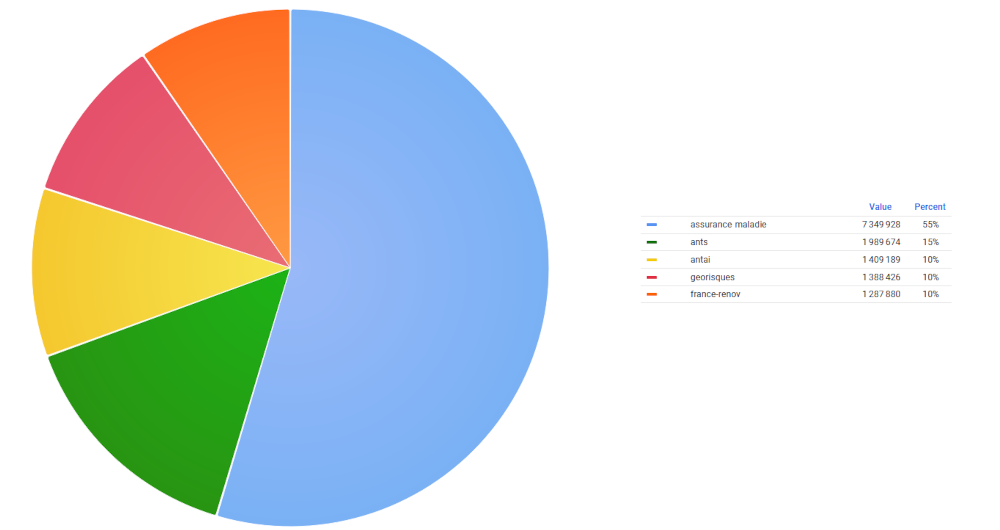
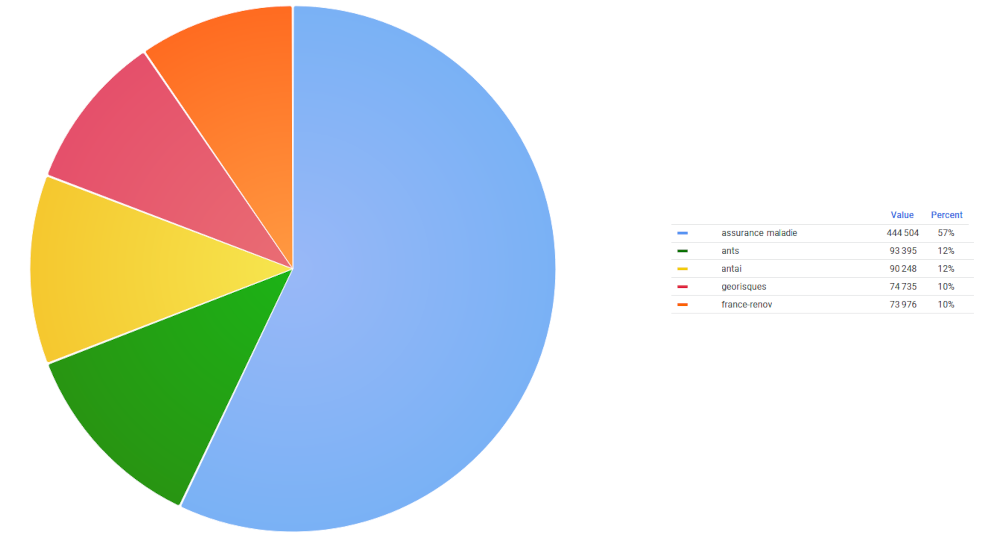
update impact indicators from may to june 2023

diff --git a/pages/indicateurs.js b/pages/indicateurs.js
@@ -20,20 +20,20 @@ function Indicateurs() {
           Cette page d’indicateurs ne reflète qu’une partie des usages. Sont ici représentés les usages de l’API adresse et non les usages de téléchargement des fichiers adresse. Néanmoins, les exploitations de l’API sont une illustration relativement fidèle des usages de l’adresse et de la typologie des utilisateurs.<br />
           Les statistiques sont présentées sur une périodicité mensuelle et sont issues des données brutes d’exploitation.<br />
           Ces données seront régulièrement enrichies afin de donner une lecture la plus fidèle des usages de la BAN.<br />
-          Date de dernière mise à jour : Juin 2023
+          Date de dernière mise à jour : Juillet 2023
         </SectionText>
       </Section>
 
-      <Section title='Nombre de requêtes' subtitle='en mai 2023' >
+      <Section title='Nombre de requêtes' subtitle='en juin 2023' >
         <Image src='/images/indicateurs/nb_requetes.png' height={200} width={1000} />
       </Section>
 
-      <Section title='Part public-privé' subtitle='en mai 2023' background='grey'>
-        <Image src='/images/indicateurs/part_public.png' height={575} width={1000} />
+      <Section title='Part public-privé' subtitle='en juin 2023' background='grey'>
+        <Image src='/images/indicateurs/part_public.png' height={630} width={1000} />
       </Section>
 
-      <Section title='Ils nous font confiance' subtitle='Les 5 plus gros utilisateurs publics en mai 2023'>
-        <Image src='/images/indicateurs/top5.png' height={530} width={1000} />
+      <Section title='Ils nous font confiance' subtitle='Les 5 plus gros utilisateurs publics en juin 2023'>
+        <Image src='/images/indicateurs/top5.png' height={540} width={1000} />
       </Section>
 
     </Page>
